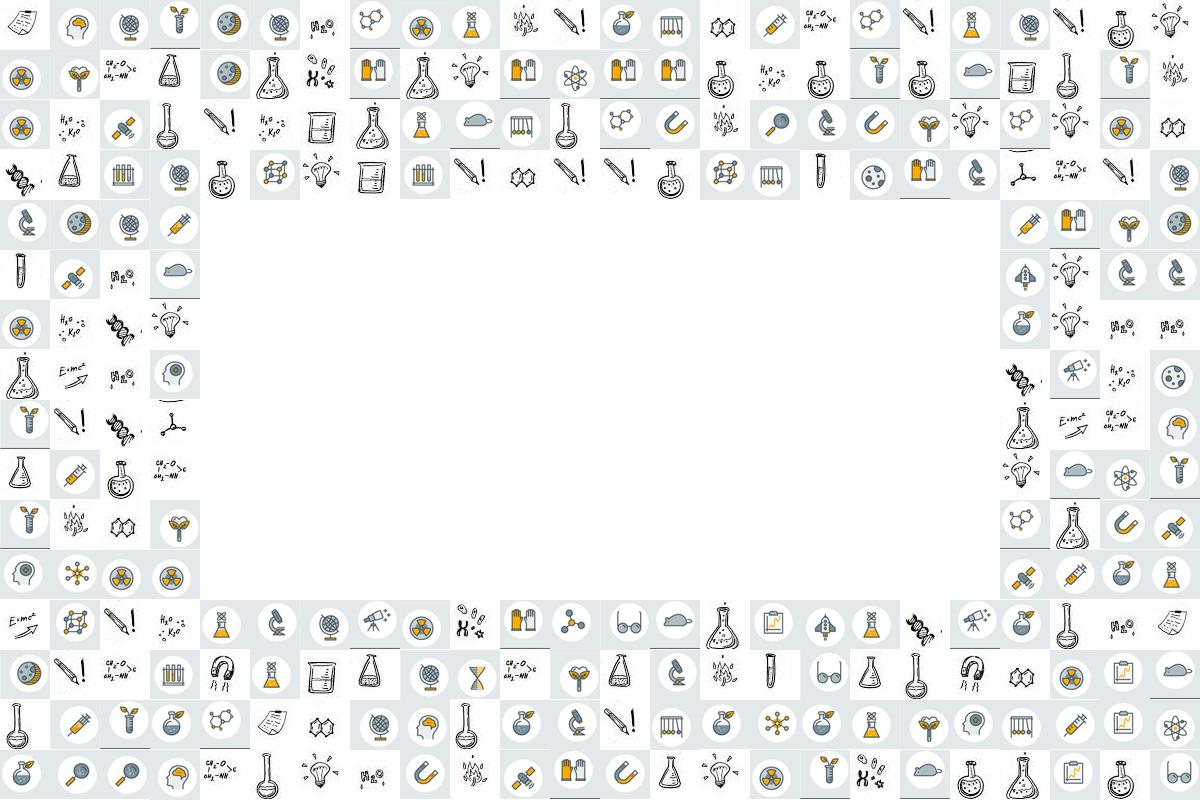
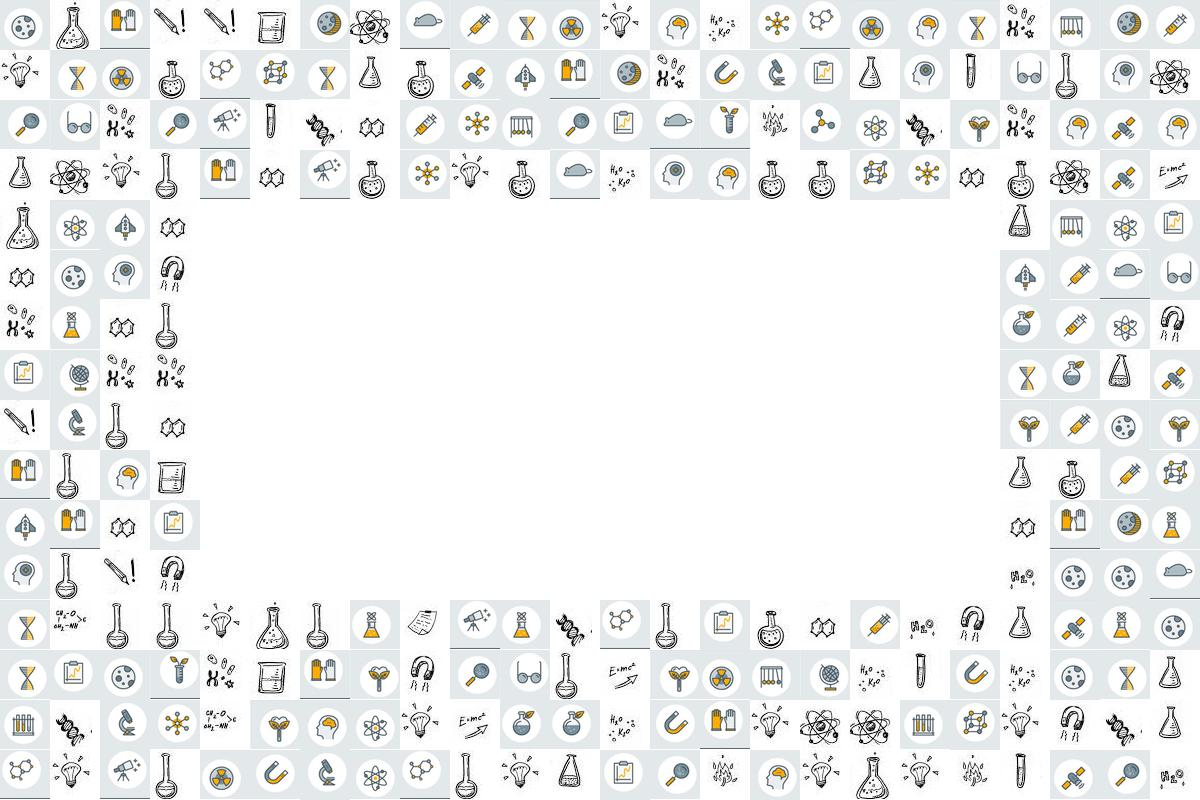
Rewriting of lost code :(

Changed region(s): [[0.0, 0.0, 1.0, 1.0]]

diff --git a/add_text_to_img_2.py b/add_text_to_img_2.py
@@ -1,7 +1,7 @@
 from PIL import Image
 from PIL import ImageFont
 from PIL import ImageDraw
-from utils import construct_image
+from util import construct_image
 import textwrap
 
 thumb_paths = ["img/%d.jpg" % (x+1) for x in range(57)]
@@ -12,7 +12,7 @@ thumb_size = 50
 img_width = 1200
 img_height = 800
 
-img = construct_image(width=img_width, height=img_height, thumbs_path_list=thumb_paths, clip_rect=(150, 150, 1000, 200 + (thumb_size * len(text_wrapped))))
+img = construct_image(width=img_width, height=img_height, thumbs_path_list=thumb_paths, thumb_size=thumb_size, clip_rect=(150, 150, 1000, 200 + (thumb_size * len(text_wrapped))))
 draw = ImageDraw.Draw(img)
 width, height = img.size
 font_size = 38
@@ -26,16 +26,3 @@ for line_nr, text_line in enumerate(text_wrapped):
               font=font)
 
 img.save('little_bits_sci1.jpg')
-
-
-# quote_font_size = 90
-# author_font_size = 40
-# text_width = 25
-#
-# ## Draw quote text ##
-# quote_text_wrapped = textwrap.wrap(data[i]["Quote"], width=text_width)
-# while len(quote_text_wrapped) > 4:
-#     quote_font_size -= 10
-#     text_width += 5
-#     quote_text_wrapped = textwrap.wrap(data[i]["Quote"], width=text_width)
-# font = ImageFont.truetype("Pacifico-Regular.ttf", quote_font_size)

diff --git a/util.py b/util.py
@@ -1,0 +1,27 @@
+from PIL import Image
+from random import shuffle
+
+
+def construct_image(width, height, thumbs_path_list, thumb_size, clip_rect=(150, 150, 1000, 200)):
+    result = Image.new("RGB", (width, height), color='white')
+    nr_lines = int(height/thumb_size)
+    nr_columns = int(width/thumb_size)
+    img_index = [x + 1 for x in range(len(thumbs_path_list)-1)]
+    shuffle(img_index)
+    array_pos = 0
+    for line in range(nr_lines):
+        for col in range(nr_columns):
+            if array_pos >= len(img_index):
+                array_pos = 0
+            img = Image.open(thumbs_path_list[img_index[array_pos]])
+            img.thumbnail((thumb_size, thumb_size), Image.ANTIALIAS)
+            x = col * thumb_size
+            y = line * thumb_size
+
+            if clip_rect[0] < x < clip_rect[2] and clip_rect[1] < y <= clip_rect[3]:
+                pass
+            else:
+                w, h = img.size
+                result.paste(img, (x, y, x + w, y + h))
+                array_pos += 1
+    return result

diff --git a/combine images.py b/combine images.py
@@ -1,5 +1,5 @@
 from PIL import Image
-from random import randint
+from random import randint, shuffle
 
 result = Image.new("RGB", (1200, 800), color='white')
 nr_lines = 16
